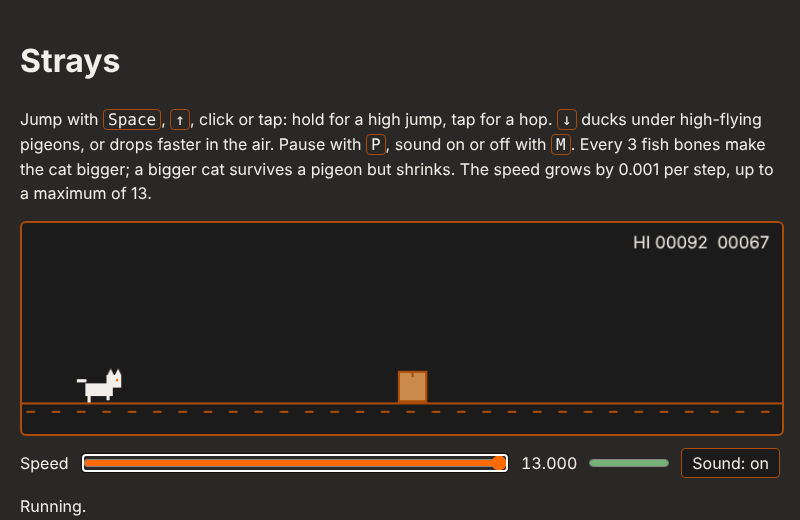
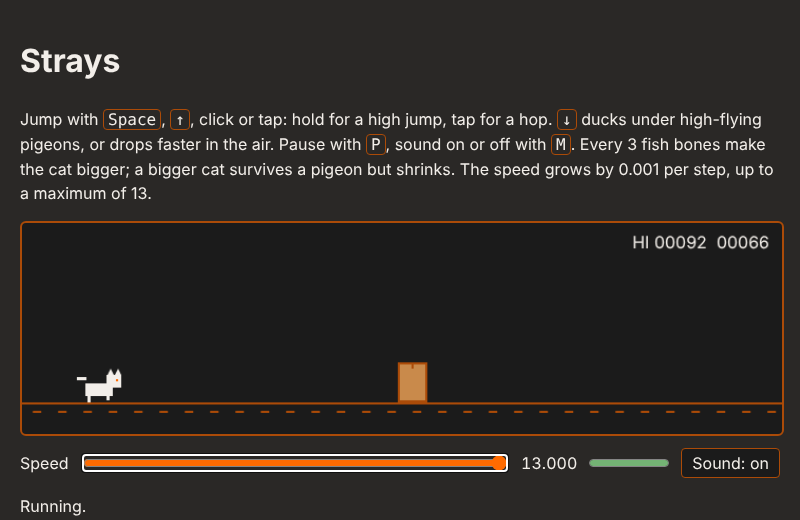
Add landing dust, squash and stretch, crash shake and score flash (spec 04)
Dust puffs from the paws on landing and sparkles burst from a collected
fish bone; the cat squashes on landing and stretches on take-off, its
tail swings with the stride, the canvas content shakes for 0.25 s on a
crash and the score blinks at every 1000 points. All of it is drawing
only; the hitbox and the simulation steps are unchanged. With reduced
motion, shake, blink, dust and sparkles are off.

The behaviour test checks that the page never moves, that reduced
motion turns off shake and dust, and reports the work per frame.

Claude-Session: https://claude.ai/code/session_01WwwZG2Szd8R3ngBsM1TLoc

Changed region(s): [[0.7812, 0.4308, 0.9688, 0.4923], [0.5, 0.6769, 0.5312, 0.7385], [0.0938, 0.7077, 0.125, 0.7385]]

diff --git a/game.js b/game.js
@@ -18,7 +18,7 @@
   const DUCK = { width: 40, height: 14 }; // the cat's size while ducking
   const COLORS = {
     cat: '#f2eee9', box: '#c98a4b', edge: '#ab4b08', ground: '#ab4b08', text: '#f2eee9', accent: '#ff6b01',
-    pigeon: '#a7a9b4', wing: '#7d8090', bone: '#e8dcc4', dim: 'rgba(27, 27, 27, 0.6)',
+    pigeon: '#a7a9b4', wing: '#7d8090', bone: '#e8dcc4', dust: '#8b857e', dim: 'rgba(27, 27, 27, 0.6)',
   };
   // Obstacle types, unlocked by the current speed (specs/08-obstacles.md)
   const OBSTACLE_TYPES = [
@@ -35,6 +35,16 @@
   const GROW_STEPS = 15; // the drawn size blends over 0.25 s
   const PROTECT_STEPS = 60; // after absorbing a pigeon, pigeons pass through for 1 s
   const REDUCED_MOTION = window.matchMedia?.('(prefers-reduced-motion: reduce)').matches ?? false;
+  // Effects (specs/04-juice.md): drawing only, they never add or skip simulation steps
+  const EFFECTS = {
+    maxParticles: 30,
+    particleSteps: 18, // dust and sparkles fade within 0.3 s
+    squashSteps: 4, // flatter after landing
+    stretchSteps: 6, // taller at the start of a jump
+    flashSteps: 36, // the score blinks three times at every 1000 points
+    shakeMs: 250,
+    shakePx: 3,
+  };
   const HIGH_SCORE_KEY = 'strays.highScore';
   const SOUND_KEY = 'strays.sound';
   // Sound cues (specs/03-sound.md): notes with an offset `at` in seconds, levels below master gain
@@ -69,7 +79,7 @@
     score: 0,
     highScore: loadHighScore(),
     newRecord: false,
-    cat: { x: 60, y: GROUND_Y, vy: 0, width: 34, height: 26, fastFall: false, scale: 1 },
+    cat: { x: 60, y: GROUND_Y, vy: 0, width: 34, height: 26, fastFall: false, scale: 1, squash: 0, stretch: 0 },
     jumpHeld: false, // Space, ↑ or a pointer is held down
     duckHeld: false, // ↓ is held down
     obstacles: [],
@@ -82,6 +92,11 @@
     protectSteps: 0,
     steps: 0, // simulation steps in this run
     milestone: 0, // thousands of points reached in this run
+    particles: [], // landing dust and treat sparkles
+    flashSteps: 0,
+    shakeUntil: 0, // time until which the crash shake runs
+    shake: 0, // largest offset applied in the last frame
+    frames: { count: 0, totalMs: 0, maxMs: 0 }, // work per frame, for the test hook
     distanceToNext: 0,
     groundOffset: 0,
   };
@@ -102,11 +117,16 @@
     state.protectSteps = 0;
     state.steps = 0;
     state.milestone = 0;
+    state.particles = [];
+    state.flashSteps = 0;
+    state.shakeUntil = 0;
     state.distanceToNext = 300;
     state.cat.y = GROUND_Y;
     state.cat.vy = 0;
     state.cat.fastFall = false;
     state.cat.scale = SIZES[0];
+    state.cat.squash = 0;
+    state.cat.stretch = 0;
     announce('Running.');
   }
 
@@ -121,6 +141,7 @@
     }
     if (state.cat.y >= GROUND_Y) {
       state.cat.vy = JUMP_VELOCITY;
+      state.cat.stretch = EFFECTS.stretchSteps;
       playCue('jump');
     }
   }
@@ -175,7 +196,12 @@
     state.fish.push({ x: obstacle.x + obstacle.width + gap / 2 - FISH.width / 2, lift });
   }
 
-  function collectFish() {
+  function collectFish(fish) {
+    const top = GROUND_Y - fish.lift - FISH.height;
+    addParticles(fish.x + FISH.width / 2, top + FISH.height / 2, 6, COLORS.accent, () => ({
+      vx: Math.random() * 3 - 1.5,
+      vy: Math.random() * 3 - 1.5,
+    }));
     state.treats += 1;
     state.score += FISH.points;
     state.growth += 1;
@@ -202,7 +228,15 @@
     if (cat.y === GROUND_Y) {
       cat.vy = 0;
       cat.fastFall = false;
-      if (wasInAir) playCue('land');
+      if (wasInAir) {
+        cat.squash = EFFECTS.squashSteps;
+        const paws = cat.x + (cat.width * cat.scale) / 2;
+        addParticles(paws, GROUND_Y - 1, 4 + Math.floor(Math.random() * 3), COLORS.dust, () => ({
+          vx: (Math.random() < 0.5 ? -1 : 1) * (0.6 + Math.random() * 1.6),
+          vy: -0.2 - Math.random() * 0.6,
+        }));
+        playCue('land');
+      }
     }
     // The drawn size blends towards the current size; the hitbox uses the current size at once
     const target = SIZES[state.size];
@@ -210,6 +244,15 @@
     if (cat.scale < target) cat.scale = Math.min(target, cat.scale + blend);
     if (cat.scale > target) cat.scale = Math.max(target, cat.scale - blend);
     if (state.protectSteps > 0) state.protectSteps -= 1;
+    if (cat.squash > 0) cat.squash -= 1;
+    if (cat.stretch > 0) cat.stretch -= 1;
+    if (state.flashSteps > 0) state.flashSteps -= 1;
+    for (const particle of state.particles) {
+      particle.x += particle.vx - state.speed * 0.3; // drift back a little with the ground
+      particle.y += particle.vy;
+      particle.life -= 1;
+    }
+    state.particles = state.particles.filter((particle) => particle.life > 0);
 
     for (const obstacle of state.obstacles) {
       obstacle.x -= state.speed;
@@ -235,7 +278,7 @@
       const bottom = GROUND_Y - fish.lift;
       if (overlaps(box, fish.x, fish.x + FISH.width, bottom - FISH.height, bottom)) {
         fish.eaten = true;
-        collectFish();
+        collectFish(fish);
       }
     }
     state.fish = state.fish.filter((fish) => !fish.eaten);
@@ -262,9 +305,19 @@
     const milestone = Math.floor(state.score / 1000);
     if (milestone > state.milestone) {
       state.milestone = milestone;
+      if (!REDUCED_MOTION) state.flashSteps = EFFECTS.flashSteps;
       playCue('milestone');
     }
     state.groundOffset = (state.groundOffset + state.speed) % 24;
+  }
+
+  // Small particles that fade out; off with reduced motion
+  function addParticles(x, y, count, color, velocity) {
+    if (REDUCED_MOTION) return;
+    for (let i = 0; i < count; i++) {
+      state.particles.push({ x, y, color, life: EFFECTS.particleSteps, ...velocity() });
+    }
+    state.particles = state.particles.slice(-EFFECTS.maxParticles);
   }
 
   // Rule 3: the contact that ends the run freezes the speed
@@ -277,6 +330,7 @@
       state.highScore = points;
       saveHighScore(points);
     }
+    state.shakeUntil = performance.now() + EFFECTS.shakeMs;
     playCue('crash');
     if (state.newRecord) playCue('record');
     const verdict = state.newRecord ? 'New record!' : 'Ouch!';
@@ -412,6 +466,13 @@
   // --- Drawing ---
   function draw() {
     ctx.clearRect(0, 0, WIDTH, HEIGHT);
+    // Crash shake: only the canvas content moves, never the page
+    const shaking = !REDUCED_MOTION && performance.now() < state.shakeUntil;
+    const shakeX = shaking ? (Math.random() * 2 - 1) * EFFECTS.shakePx : 0;
+    const shakeY = shaking ? (Math.random() * 2 - 1) * EFFECTS.shakePx : 0;
+    state.shake = Math.max(Math.abs(shakeX), Math.abs(shakeY));
+    ctx.save();
+    ctx.translate(shakeX, shakeY);
 
     ctx.strokeStyle = COLORS.ground;
     ctx.lineWidth = 2;
@@ -430,8 +491,15 @@
     }
     for (const fish of state.fish) drawFish(fish.x, GROUND_Y - fish.lift - FISH.height);
     drawCat(state.cat);
+    for (const particle of state.particles) {
+      ctx.globalAlpha = particle.life / EFFECTS.particleSteps;
+      ctx.fillStyle = particle.color;
+      ctx.fillRect(particle.x - 1, particle.y - 1, 3, 3);
+    }
+    ctx.globalAlpha = 1;
 
-    ctx.fillStyle = COLORS.text;
+    const flashing = state.flashSteps > 0 && Math.floor(state.flashSteps / 6) % 2 === 1;
+    ctx.fillStyle = flashing ? COLORS.accent : COLORS.text;
     ctx.font = '16px system-ui, sans-serif';
     ctx.textAlign = 'right';
     const current = String(Math.floor(state.score)).padStart(5, '0');
@@ -457,6 +525,7 @@
       if (state.phase === 'over') message = state.newRecord ? 'New record! – jump to restart' : 'Game over – jump to restart';
       ctx.fillText(message, WIDTH / 2, 80);
     }
+    ctx.restore();
   }
 
   function drawCat(cat) {
@@ -466,7 +535,12 @@
     if (protectedNow && REDUCED_MOTION) ctx.globalAlpha = 0.5;
     // Draw at size 1 around the paws, scaled to the current size
     ctx.translate(cat.x, cat.y);
-    ctx.scale(cat.scale, cat.scale);
+    // Squash after landing, stretch when taking off; the hitbox keeps its size
+    let squashX = 1;
+    let squashY = 1;
+    if (cat.squash > 0) [squashX, squashY] = [1.1, 0.9];
+    else if (cat.stretch > 0) [squashX, squashY] = [0.92, 1.1];
+    ctx.scale(cat.scale * squashX, cat.scale * squashY);
     const x = 0;
     const y = 0;
     const running = state.phase === 'running' && cat.y === GROUND_Y;
@@ -493,7 +567,7 @@
     ctx.moveTo(x + 21, y - 26); ctx.lineTo(x + 24, y - 32); ctx.lineTo(x + 27, y - 26);
     ctx.moveTo(x + 28, y - 26); ctx.lineTo(x + 31, y - 32); ctx.lineTo(x + 34, y - 26);
     ctx.fill();
-    ctx.fillRect(x - 8, y - 22, 9, 3); // tail
+    ctx.fillRect(x - 8, y - (stride ? 24 : 22), 9, 3); // tail, swinging with the stride
     ctx.fillRect(x + 2, y - 6, 3, stride ? 6 : 4); // legs
     ctx.fillRect(x + 20, y - 6, 3, stride ? 4 : 6);
     ctx.fillStyle = COLORS.accent;
@@ -634,12 +708,17 @@
   function loop(now) {
     backlog += Math.min(250, now - lastTime); // don't catch up after a tab switch
     lastTime = now;
+    const workStart = performance.now();
     while (backlog >= STEP_MS) {
       if (state.phase === 'running') step();
       backlog -= STEP_MS;
     }
     draw();
     updateReadout();
+    const work = performance.now() - workStart;
+    state.frames.count += 1;
+    state.frames.totalMs += work;
+    state.frames.maxMs = Math.max(state.frames.maxMs, work);
     requestAnimationFrame(loop);
   }
 
@@ -682,6 +761,12 @@
     get highScore() { return state.highScore; },
     get sound() { return sound.on; },
     get cuesPlayed() { return { ...sound.played }; },
+    get particles() { return state.particles.length; },
+    get shake() { return state.shake; },
+    get frameMs() {
+      const { count, totalMs, maxMs } = state.frames;
+      return { average: count ? totalMs / count : 0, max: maxMs };
+    },
   };
 
   updateReadout();

diff --git a/specs/04-juice.md b/specs/04-juice.md
@@ -13,6 +13,8 @@ Small visual reactions that make the cat feel alive and progress feel rewarding.
   applied with `ctx.translate` inside the canvas only).
 - **Milestone flash:** every 1000 points the score blinks in the accent color three times.
 - **Tail:** the tail moves up and down with the running stride.
+- **Treat sparkle** (09): 6 small accent-colored particles burst from a collected fish bone and
+  fade within 0.3 s, like the dust.
 
 ## Interaction with the speed rule
 
@@ -20,8 +22,8 @@ Purely visual. Effects run during drawing; they never add or skip simulation ste
 
 ## Accessibility
 
-With `prefers-reduced-motion: reduce`, crash shake, score blink and landing dust are off. Squash
-and stretch stay, because they are small and slow.
+With `prefers-reduced-motion: reduce`, crash shake, score blink, landing dust and treat sparkles
+are off. Squash and stretch stay, because they are small and slow.
 
 ## Edge cases
 
@@ -30,10 +32,13 @@ and stretch stay, because they are small and slow.
 
 ## Acceptance criteria
 
-- [ ] The page itself never moves (check `window.scrollY` and the canvas bounding box before and
+- [x] The page itself never moves (check `window.scrollY` and the canvas bounding box before and
       after a crash).
-- [ ] With reduced motion emulated in Playwright, no shake offset is applied.
-- [ ] The frame time stays below 4 ms on a mid-range laptop (Performance panel).
+- [x] With reduced motion emulated in Playwright, no shake offset is applied and no dust appears
+      (with motion: 5 dust particles after a landing, shake up to 3 px).
+- [ ] The frame time stays below 4 ms on a mid-range laptop (Performance panel). Not measured on a
+      laptop; in the headless test container the work per frame averages 0.2 ms, single frames
+      peaked at 2.2 to 4.7 ms over three 60 s runs at speed 13.
 
 ## Out of scope
 

diff --git a/README.md b/README.md
@@ -44,8 +44,8 @@ The game also pauses by itself when you switch tabs.
 `test/test-game.mjs` checks the behaviour with Playwright (increase per second, freeze on
 collision, restart at 6, cap at 13, high score kept across a reload and without storage, no speed growth while paused,
 hop lower than a held jump, faster landing with arrow down, a scripted player surviving all obstacle
-types at speed 13, growing from fish bones and shrinking from pigeons, sound cues and the sound setting) and saves
-screenshots. `BOT_SECONDS` sets that run's length (default 60):
+types at speed 13, growing from fish bones and shrinking from pigeons, sound cues and the sound
+setting, effects that never move the page and respect reduced motion) and saves screenshots. `BOT_SECONDS` sets that run's length (default 60):
 
 ```bash
 npm i playwright-core

diff --git a/specs/README.md b/specs/README.md
@@ -40,7 +40,7 @@ bridge for the borrowed rule; everything in this folder is an original design.
 | 01 | [Favicon](01-favicon.md) | Polish | done |
 | 02 | [Pause](02-pause.md) | Polish | done |
 | 03 | [Sound](03-sound.md) | Polish | done |
-| 04 | [Effects](04-juice.md) | Polish | planned |
+| 04 | [Effects](04-juice.md) | Polish | done |
 | 05 | [Day and night](05-day-night.md) | Polish | planned |
 | 06 | [High score](06-highscore.md) | Gameplay | done |
 | 07 | [Jump control](07-jump-control.md) | Gameplay | done |
